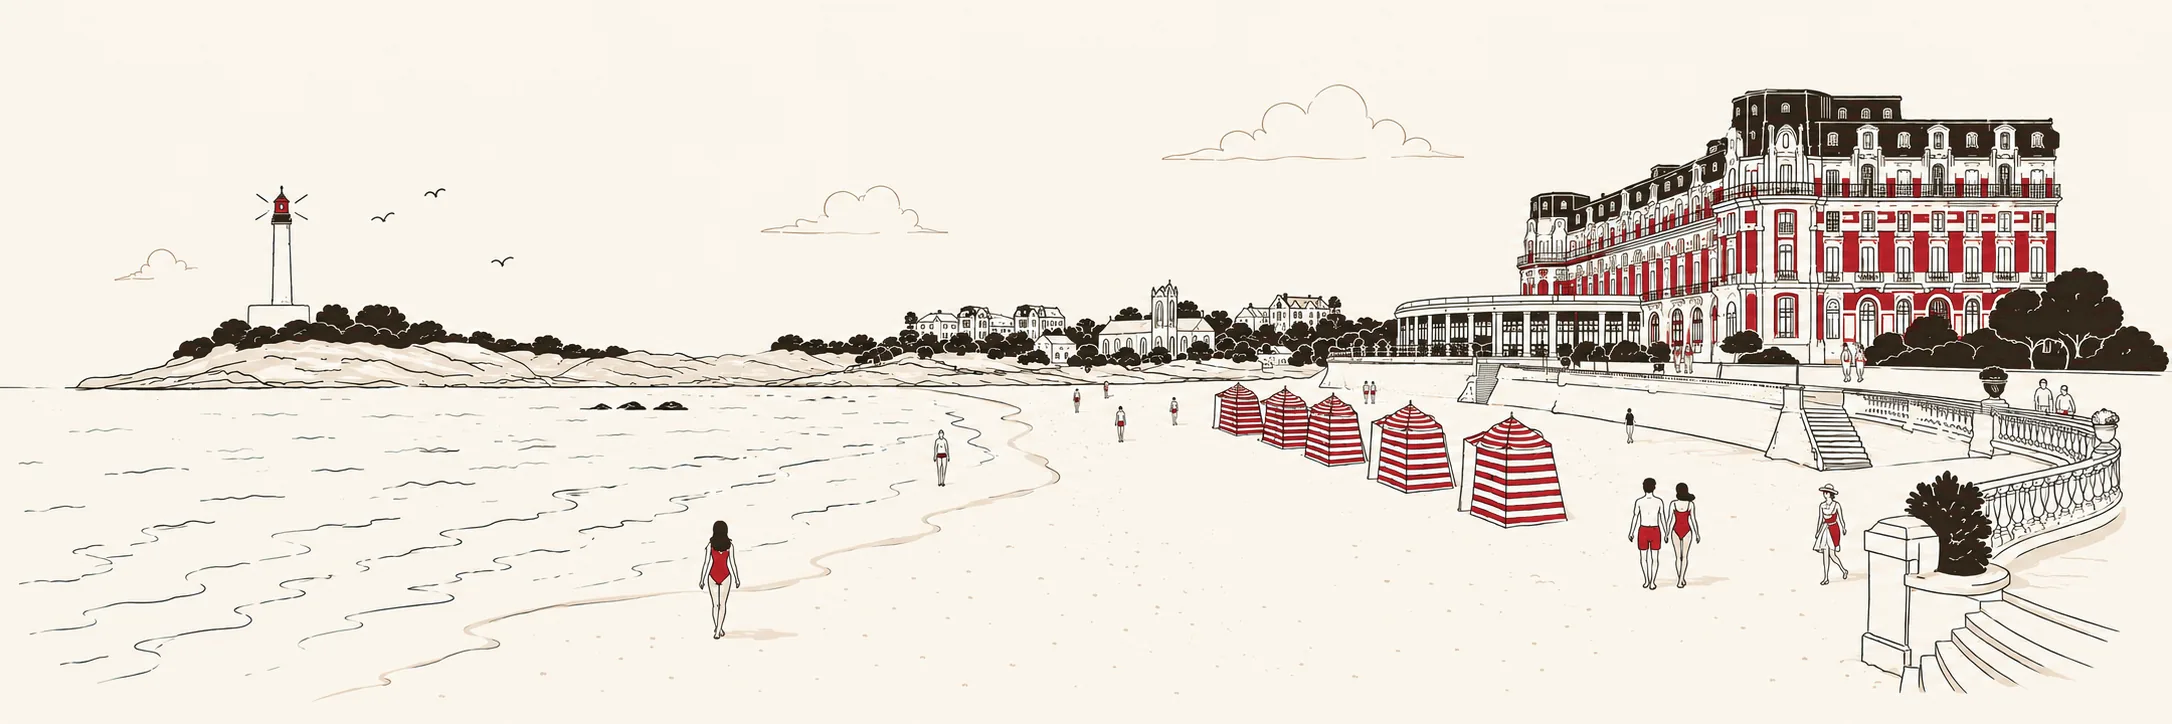
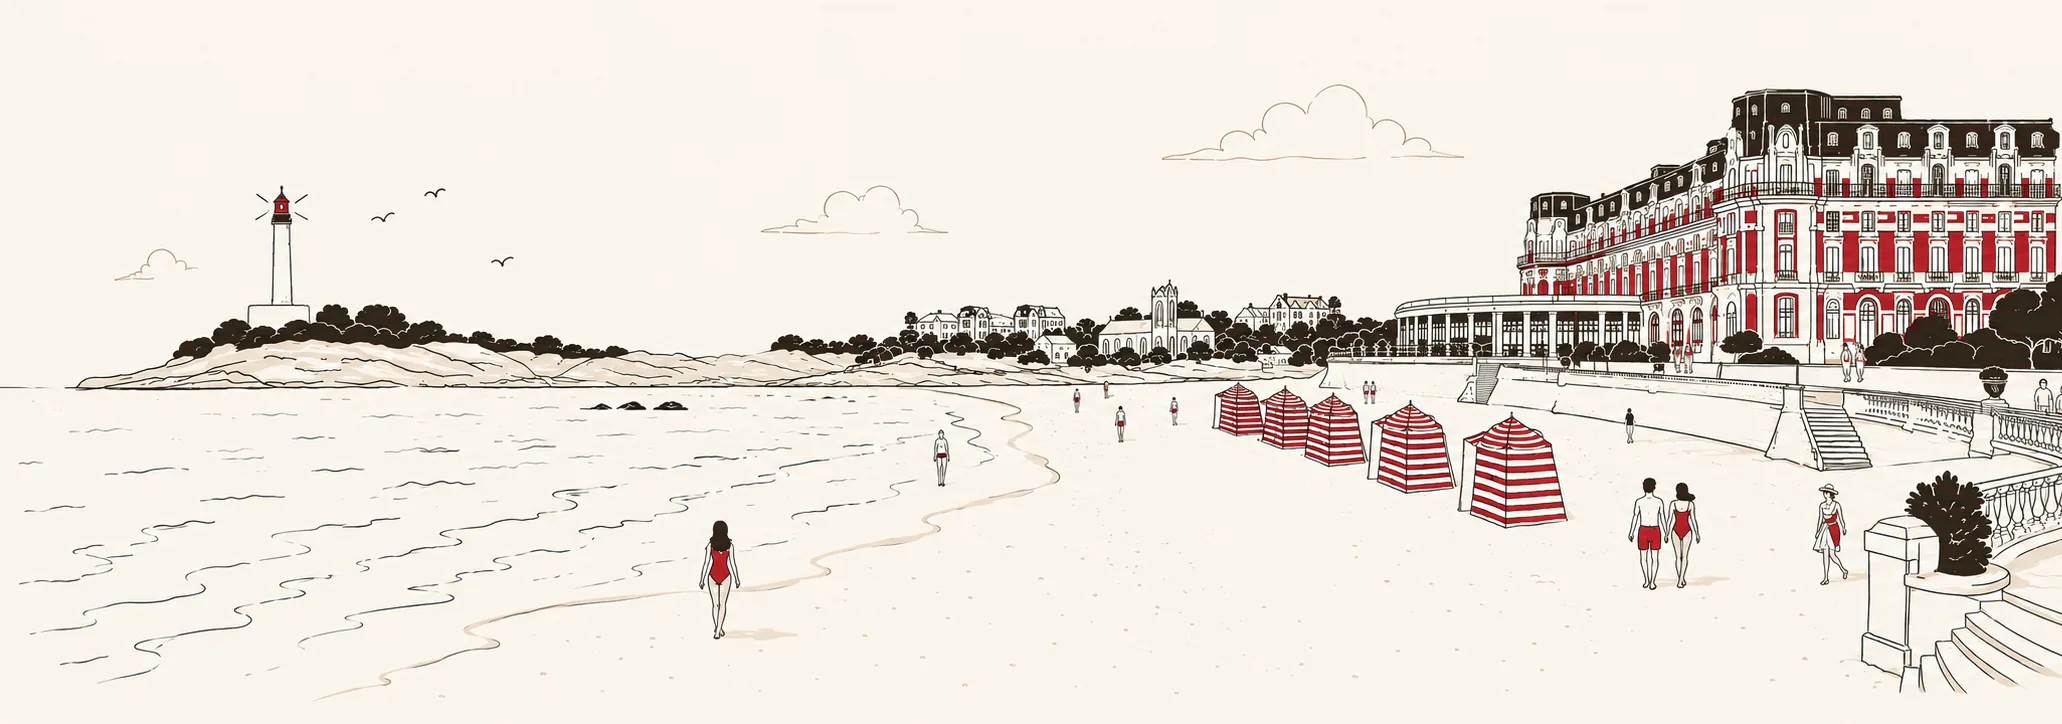
Add files via upload

diff --git a/en/index.html b/en/index.html
@@ -390,7 +390,7 @@ color:rgba(250,245,236,0.5);text-align:center;margin-top:11px;line-height:1.6}
 
 
 </div>
-<figure class="hero-frise"><picture><source media="(max-width:899px)" srcset="../frise-biarritz-mobile.webp" width="1400" height="700"/><img src="../frise-biarritz-desktop.webp" alt="Biarritz lighthouse, the Grande Plage with its striped beach tents and the Hôtel du Palais, line drawing" width="2172" height="724" loading="eager" fetchpriority="high" decoding="async"/></picture></figure>
+<figure class="hero-frise"><picture><source media="(max-width:899px)" srcset="../frise-biarritz-mobile.webp" width="1270" height="700"/><img src="../frise-biarritz-desktop.webp" alt="Biarritz lighthouse, the Grande Plage with its striped beach tents and the Hôtel du Palais, line drawing" width="2062" height="724" loading="eager" fetchpriority="high" decoding="async"/></picture></figure>
 <div class="wrap">
 <div class="hero-figs">
 <div class="hero-fig"><div class="v" id="heroPrix">—</div><div class="l" data-i18n="heroL1"></div></div>

diff --git a/es/index.html b/es/index.html
@@ -390,7 +390,7 @@ color:rgba(250,245,236,0.5);text-align:center;margin-top:11px;line-height:1.6}
 
 
 </div>
-<figure class="hero-frise"><picture><source media="(max-width:899px)" srcset="../frise-biarritz-mobile.webp" width="1400" height="700"/><img src="../frise-biarritz-desktop.webp" alt="El faro, la Grande Plage de Biarritz con sus casetas de rayas y el Hôtel du Palais, dibujo a línea" width="2172" height="724" loading="eager" fetchpriority="high" decoding="async"/></picture></figure>
+<figure class="hero-frise"><picture><source media="(max-width:899px)" srcset="../frise-biarritz-mobile.webp" width="1270" height="700"/><img src="../frise-biarritz-desktop.webp" alt="El faro, la Grande Plage de Biarritz con sus casetas de rayas y el Hôtel du Palais, dibujo a línea" width="2062" height="724" loading="eager" fetchpriority="high" decoding="async"/></picture></figure>
 <div class="wrap">
 <div class="hero-figs">
 <div class="hero-fig"><div class="v" id="heroPrix">—</div><div class="l" data-i18n="heroL1"></div></div>

diff --git a/index.html b/index.html
@@ -390,7 +390,7 @@ color:rgba(250,245,236,0.5);text-align:center;margin-top:11px;line-height:1.6}
 
 
 </div>
-<figure class="hero-frise"><picture><source media="(max-width:899px)" srcset="frise-biarritz-mobile.webp" width="1400" height="700"/><img src="frise-biarritz-desktop.webp" alt="Le phare, la Grande Plage de Biarritz, ses tentes rayées et l'Hôtel du Palais, dessin au trait" width="2172" height="724" loading="eager" fetchpriority="high" decoding="async"/></picture></figure>
+<figure class="hero-frise"><picture><source media="(max-width:899px)" srcset="frise-biarritz-mobile.webp" width="1270" height="700"/><img src="frise-biarritz-desktop.webp" alt="Le phare, la Grande Plage de Biarritz, ses tentes rayées et l'Hôtel du Palais, dessin au trait" width="2062" height="724" loading="eager" fetchpriority="high" decoding="async"/></picture></figure>
 <div class="wrap">
 <div class="hero-figs">
 <div class="hero-fig"><div class="v" id="heroPrix">—</div><div class="l" data-i18n="heroL1"></div></div>
